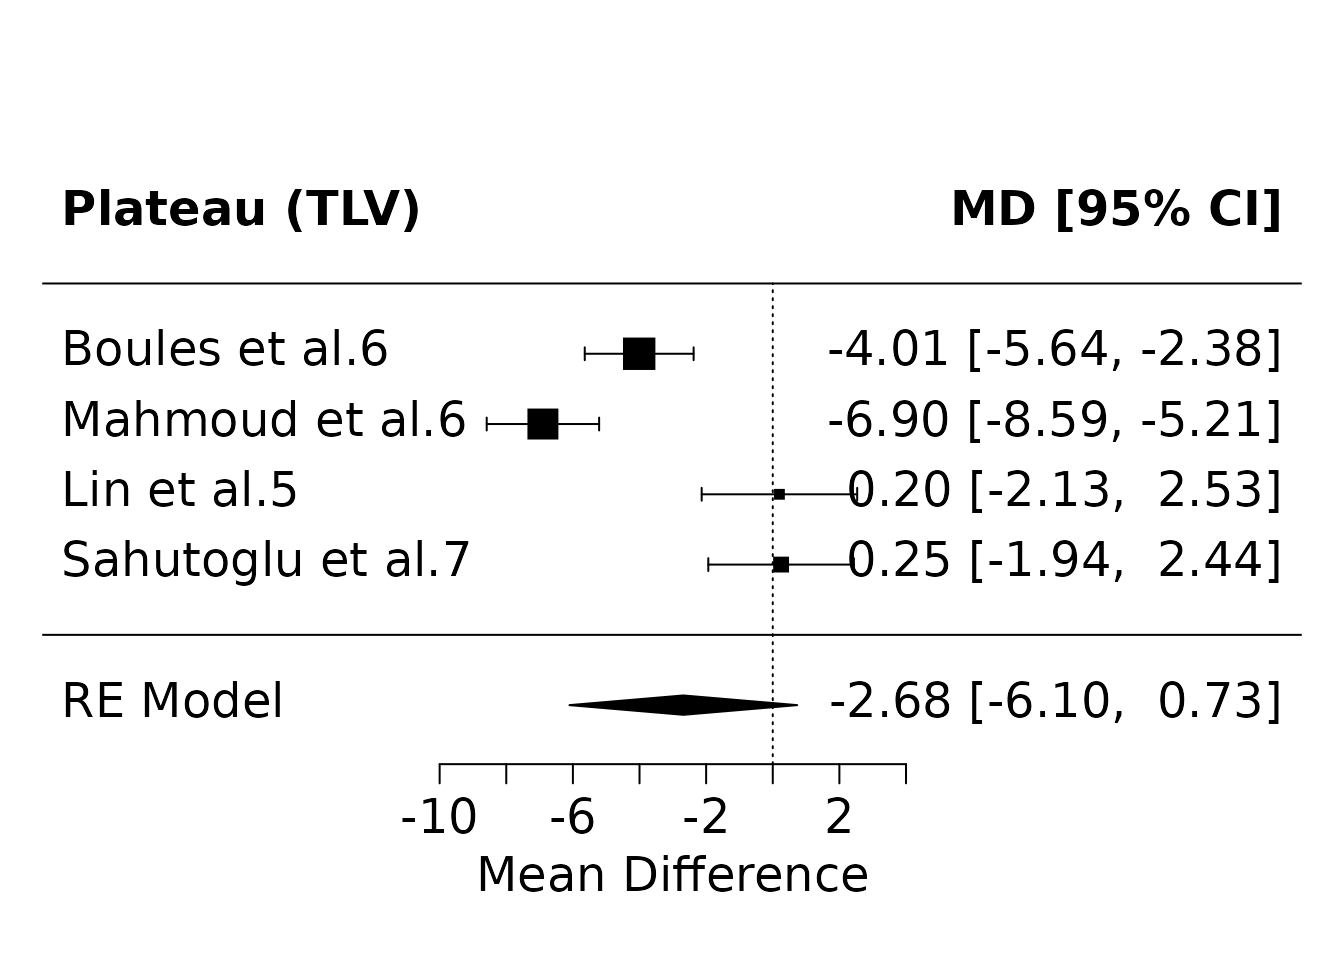
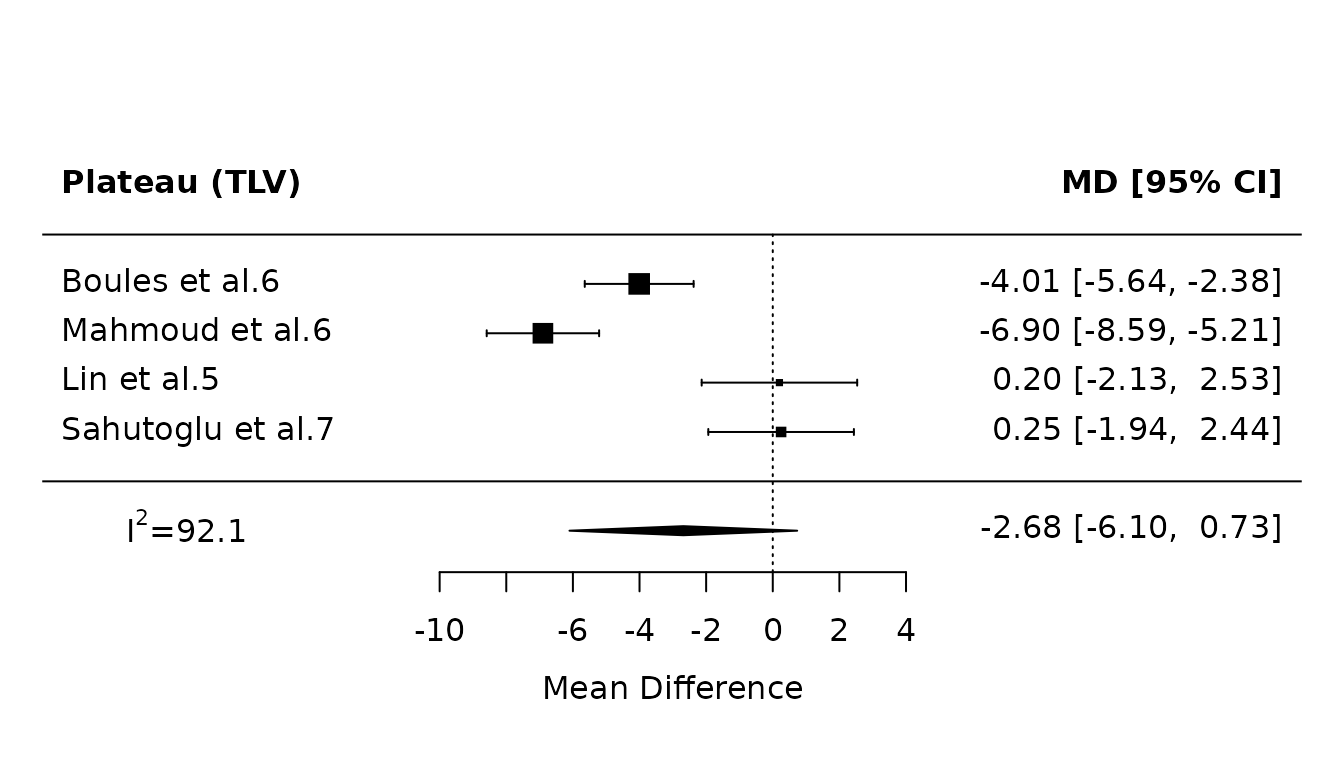
Built site for dcv: 0.0.0.9000@43ad66d

diff --git a/articles/dcv-atelectasis.html b/articles/dcv-atelectasis.html
@@ -95,8 +95,8 @@
 <h2 id="primary-analysis-paul-mandel-without-hartung-knapp-sidik-jonkman-hksj-modification">Primary analysis: Paul-Mandel without Hartung-Knapp-Sidik-Jonkman (HKSJ) modification<a class="anchor" aria-label="anchor" href="#primary-analysis-paul-mandel-without-hartung-knapp-sidik-jonkman-hksj-modification"></a>
 </h2>
 <div class="sourceCode" id="cb3"><pre class="downlit sourceCode r">
-<code class="sourceCode R"><span><span class="va">pm</span> <span class="op">&lt;-</span> <span class="fu"><a href="https://wviechtb.github.io/metafor/reference/rma.uni.html" class="external-link">rma</a></span><span class="op">(</span><span class="va">yi</span>, <span class="va">vi</span>, data<span class="op">=</span><span class="va">dat.atelectasis</span>, method<span class="op">=</span><span class="st">"PM"</span><span class="op">)</span> </span>
-<span><span class="fu"><a href="https://wviechtb.github.io/metafor/reference/forest.html" class="external-link">forest</a></span><span class="op">(</span><span class="va">pm</span>,</span>
+<code class="sourceCode R"><span><span class="va">pm.atelectasis</span> <span class="op">&lt;-</span> <span class="fu"><a href="https://wviechtb.github.io/metafor/reference/rma.uni.html" class="external-link">rma</a></span><span class="op">(</span><span class="va">yi</span>, <span class="va">vi</span>, data<span class="op">=</span><span class="va">dat.atelectasis</span>, method<span class="op">=</span><span class="st">"PM"</span><span class="op">)</span> </span>
+<span><span class="fu"><a href="https://wviechtb.github.io/metafor/reference/forest.html" class="external-link">forest</a></span><span class="op">(</span><span class="va">pm.atelectasis</span>,</span>
 <span>       atransf<span class="op">=</span><span class="va">exp</span>,</span>
 <span>       at<span class="op">=</span><span class="fu"><a href="https://rdrr.io/r/base/Log.html" class="external-link">log</a></span><span class="op">(</span><span class="fu"><a href="https://rdrr.io/r/base/c.html" class="external-link">c</a></span><span class="op">(</span><span class="fl">0.01</span>, <span class="fl">0.1</span>, <span class="fl">0.5</span>, <span class="fl">1</span>, <span class="fl">4</span>, <span class="fl">10</span><span class="op">)</span><span class="op">)</span><span class="op">)</span></span></code></pre></div>
 <p><img src="dcv-atelectasis_files/figure-html/PM-1.png" width="672"> These results agree with the paper (Fig 2, bottom).</p>
@@ -108,21 +108,21 @@
 <h3 id="sensitivity-analysis-1-fe-model">Sensitivity analysis 1: FE model<a class="anchor" aria-label="anchor" href="#sensitivity-analysis-1-fe-model"></a>
 </h3>
 <div class="sourceCode" id="cb4"><pre class="downlit sourceCode r">
-<code class="sourceCode R"><span><span class="va">fe</span> <span class="op">&lt;-</span> <span class="fu"><a href="https://wviechtb.github.io/metafor/reference/rma.uni.html" class="external-link">rma</a></span><span class="op">(</span><span class="va">yi</span>, <span class="va">vi</span>, data<span class="op">=</span><span class="va">dat.atelectasis</span>, method<span class="op">=</span><span class="st">"FE"</span><span class="op">)</span> </span>
-<span><span class="fu"><a href="https://wviechtb.github.io/metafor/reference/forest.html" class="external-link">forest</a></span><span class="op">(</span><span class="va">fe</span>, </span>
+<code class="sourceCode R"><span><span class="va">fe.atelectasis</span> <span class="op">&lt;-</span> <span class="fu"><a href="https://wviechtb.github.io/metafor/reference/rma.uni.html" class="external-link">rma</a></span><span class="op">(</span><span class="va">yi</span>, <span class="va">vi</span>, data<span class="op">=</span><span class="va">dat.atelectasis</span>, method<span class="op">=</span><span class="st">"FE"</span><span class="op">)</span> </span>
+<span><span class="fu"><a href="https://wviechtb.github.io/metafor/reference/forest.html" class="external-link">forest</a></span><span class="op">(</span><span class="va">fe.atelectasis</span>, </span>
 <span>       atransf<span class="op">=</span><span class="va">exp</span>,</span>
 <span>       at<span class="op">=</span><span class="fu"><a href="https://rdrr.io/r/base/Log.html" class="external-link">log</a></span><span class="op">(</span><span class="fu"><a href="https://rdrr.io/r/base/c.html" class="external-link">c</a></span><span class="op">(</span><span class="fl">0.01</span>, <span class="fl">0.1</span>, <span class="fl">0.5</span>, <span class="fl">1</span>, <span class="fl">4</span>, <span class="fl">10</span><span class="op">)</span><span class="op">)</span><span class="op">)</span></span></code></pre></div>
 <p><img src="dcv-atelectasis_files/figure-html/FE-1.png" width="672"></p>
 <p>Note: The standard RE model without HKSJ modification is identical (not shown):</p>
 <div class="sourceCode" id="cb5"><pre class="downlit sourceCode r">
-<code class="sourceCode R"><span><span class="va">re</span> <span class="op">&lt;-</span> <span class="fu"><a href="https://wviechtb.github.io/metafor/reference/rma.uni.html" class="external-link">rma</a></span><span class="op">(</span><span class="va">yi</span>, <span class="va">vi</span>, data<span class="op">=</span><span class="va">dat.atelectasis</span>, method<span class="op">=</span><span class="st">"REML"</span><span class="op">)</span> </span></code></pre></div>
+<code class="sourceCode R"><span><span class="va">re.atelectasis</span> <span class="op">&lt;-</span> <span class="fu"><a href="https://wviechtb.github.io/metafor/reference/rma.uni.html" class="external-link">rma</a></span><span class="op">(</span><span class="va">yi</span>, <span class="va">vi</span>, data<span class="op">=</span><span class="va">dat.atelectasis</span>, method<span class="op">=</span><span class="st">"REML"</span><span class="op">)</span> </span></code></pre></div>
 </div>
 <div class="section level3">
 <h3 id="sensitivity-analysis-2-paule-mandel-with-hksj-modification">Sensitivity analysis 2: Paule-Mandel with HKSJ modification<a class="anchor" aria-label="anchor" href="#sensitivity-analysis-2-paule-mandel-with-hksj-modification"></a>
 </h3>
 <div class="sourceCode" id="cb6"><pre class="downlit sourceCode r">
-<code class="sourceCode R"><span><span class="va">pmhk</span> <span class="op">&lt;-</span> <span class="fu"><a href="https://wviechtb.github.io/metafor/reference/rma.uni.html" class="external-link">rma</a></span><span class="op">(</span><span class="va">yi</span>, <span class="va">vi</span>, data<span class="op">=</span><span class="va">dat.atelectasis</span>, method<span class="op">=</span><span class="st">"PM"</span>, test<span class="op">=</span><span class="st">"knha"</span><span class="op">)</span> </span>
-<span><span class="fu"><a href="https://wviechtb.github.io/metafor/reference/forest.html" class="external-link">forest</a></span><span class="op">(</span><span class="va">pmhk</span>,</span>
+<code class="sourceCode R"><span><span class="va">pmhk.atelectasis</span> <span class="op">&lt;-</span> <span class="fu"><a href="https://wviechtb.github.io/metafor/reference/rma.uni.html" class="external-link">rma</a></span><span class="op">(</span><span class="va">yi</span>, <span class="va">vi</span>, data<span class="op">=</span><span class="va">dat.atelectasis</span>, method<span class="op">=</span><span class="st">"PM"</span>, test<span class="op">=</span><span class="st">"knha"</span><span class="op">)</span> </span>
+<span><span class="fu"><a href="https://wviechtb.github.io/metafor/reference/forest.html" class="external-link">forest</a></span><span class="op">(</span><span class="va">pmhk.atelectasis</span>,</span>
 <span>       atransf<span class="op">=</span><span class="va">exp</span>,</span>
 <span>       at<span class="op">=</span><span class="fu"><a href="https://rdrr.io/r/base/Log.html" class="external-link">log</a></span><span class="op">(</span><span class="fu"><a href="https://rdrr.io/r/base/c.html" class="external-link">c</a></span><span class="op">(</span><span class="fl">0.01</span>, <span class="fl">0.1</span>, <span class="fl">0.5</span>, <span class="fl">1</span>, <span class="fl">4</span>, <span class="fl">10</span><span class="op">)</span><span class="op">)</span><span class="op">)</span></span></code></pre></div>
 <p><img src="dcv-atelectasis_files/figure-html/PMHK-1.png" width="672"></p>
@@ -144,8 +144,8 @@
 <span>              <span class="op">)</span></span></code></pre></div>
 <div class="sourceCode" id="cb8"><pre class="downlit sourceCode r">
 <code class="sourceCode R"><span></span>
-<span><span class="va">pm.OR</span> <span class="op">&lt;-</span> <span class="fu"><a href="https://wviechtb.github.io/metafor/reference/rma.uni.html" class="external-link">rma</a></span><span class="op">(</span><span class="va">yi</span>, <span class="va">vi</span>, data<span class="op">=</span><span class="va">dat.atelectasis.OR</span>, method<span class="op">=</span><span class="st">"PM"</span><span class="op">)</span> </span>
-<span><span class="fu"><a href="https://wviechtb.github.io/metafor/reference/forest.html" class="external-link">forest</a></span><span class="op">(</span><span class="va">pm.OR</span>,</span>
+<span><span class="va">pm.OR.atelectasis</span> <span class="op">&lt;-</span> <span class="fu"><a href="https://wviechtb.github.io/metafor/reference/rma.uni.html" class="external-link">rma</a></span><span class="op">(</span><span class="va">yi</span>, <span class="va">vi</span>, data<span class="op">=</span><span class="va">dat.atelectasis.OR</span>, method<span class="op">=</span><span class="st">"PM"</span><span class="op">)</span> </span>
+<span><span class="fu"><a href="https://wviechtb.github.io/metafor/reference/forest.html" class="external-link">forest</a></span><span class="op">(</span><span class="va">pm.OR.atelectasis</span>,</span>
 <span>       atransf<span class="op">=</span><span class="va">exp</span>,</span>
 <span>       at<span class="op">=</span><span class="fu"><a href="https://rdrr.io/r/base/Log.html" class="external-link">log</a></span><span class="op">(</span><span class="fu"><a href="https://rdrr.io/r/base/c.html" class="external-link">c</a></span><span class="op">(</span><span class="fl">0.01</span>, <span class="fl">0.1</span>, <span class="fl">0.5</span>, <span class="fl">1</span>, <span class="fl">4</span>, <span class="fl">10</span><span class="op">)</span><span class="op">)</span><span class="op">)</span></span></code></pre></div>
 <p><img src="dcv-atelectasis_files/figure-html/PM%20-%20OR-1.png" width="672"></p>
@@ -159,11 +159,11 @@
 <h3 id="atelectasis">Atelectasis<a class="anchor" aria-label="anchor" href="#atelectasis"></a>
 </h3>
 <div class="sourceCode" id="cb9"><pre class="downlit sourceCode r">
-<code class="sourceCode R"><span><span class="va">leave1.atel</span> <span class="op">&lt;-</span> <span class="fu"><a href="https://wviechtb.github.io/metafor/reference/leave1out.html" class="external-link">leave1out</a></span><span class="op">(</span><span class="va">pm</span><span class="op">)</span></span>
+<code class="sourceCode R"><span><span class="va">leave1.atel</span> <span class="op">&lt;-</span> <span class="fu"><a href="https://wviechtb.github.io/metafor/reference/leave1out.html" class="external-link">leave1out</a></span><span class="op">(</span><span class="va">pm.atelectasis</span><span class="op">)</span></span>
 <span><span class="fu"><a href="https://wviechtb.github.io/metafor/reference/forest.default.html" class="external-link">forest.default</a></span><span class="op">(</span>x<span class="op">=</span><span class="va">leave1.atel</span><span class="op">$</span><span class="va">estimate</span>, ci.lb<span class="op">=</span><span class="va">leave1.atel</span><span class="op">$</span><span class="va">ci.lb</span>, ci.ub<span class="op">=</span><span class="va">leave1.atel</span><span class="op">$</span><span class="va">ci.ub</span>,</span>
 <span>               slab<span class="op">=</span><span class="fu"><a href="https://rdrr.io/r/base/paste.html" class="external-link">paste</a></span><span class="op">(</span><span class="st">"Omitting "</span>, <span class="va">leave1.atel</span><span class="op">$</span><span class="va">slab</span>, sep<span class="op">=</span><span class="st">""</span><span class="op">)</span>,atransf<span class="op">=</span><span class="va">exp</span>,</span>
-<span>               at<span class="op">=</span><span class="fu"><a href="https://rdrr.io/r/base/Log.html" class="external-link">log</a></span><span class="op">(</span><span class="fu"><a href="https://rdrr.io/r/base/c.html" class="external-link">c</a></span><span class="op">(</span><span class="fl">0.15</span>, <span class="fl">0.25</span>, <span class="fu"><a href="https://rdrr.io/r/base/Log.html" class="external-link">exp</a></span><span class="op">(</span><span class="va">pm</span><span class="op">$</span><span class="va">b</span><span class="op">)</span>, <span class="fl">1</span>, <span class="fl">4</span><span class="op">)</span><span class="op">)</span>, xlim<span class="op">=</span><span class="fu"><a href="https://rdrr.io/r/base/Log.html" class="external-link">log</a></span><span class="op">(</span><span class="fu"><a href="https://rdrr.io/r/base/c.html" class="external-link">c</a></span><span class="op">(</span><span class="fl">0.01</span>, <span class="fl">4.5</span><span class="op">)</span><span class="op">)</span>,</span>
-<span>               refline<span class="op">=</span><span class="va">pm</span><span class="op">$</span><span class="va">b</span></span>
+<span>               at<span class="op">=</span><span class="fu"><a href="https://rdrr.io/r/base/Log.html" class="external-link">log</a></span><span class="op">(</span><span class="fu"><a href="https://rdrr.io/r/base/c.html" class="external-link">c</a></span><span class="op">(</span><span class="fl">0.15</span>, <span class="fl">0.25</span>, <span class="fu"><a href="https://rdrr.io/r/base/Log.html" class="external-link">exp</a></span><span class="op">(</span><span class="va">pm.atelectasis</span><span class="op">$</span><span class="va">b</span><span class="op">)</span>, <span class="fl">1</span>, <span class="fl">4</span><span class="op">)</span><span class="op">)</span>, xlim<span class="op">=</span><span class="fu"><a href="https://rdrr.io/r/base/Log.html" class="external-link">log</a></span><span class="op">(</span><span class="fu"><a href="https://rdrr.io/r/base/c.html" class="external-link">c</a></span><span class="op">(</span><span class="fl">0.01</span>, <span class="fl">4.5</span><span class="op">)</span><span class="op">)</span>,</span>
+<span>               refline<span class="op">=</span><span class="va">pm.atelectasis</span><span class="op">$</span><span class="va">b</span></span>
 <span>              <span class="op">)</span></span>
 <span><span class="fu"><a href="https://rdrr.io/r/graphics/lines.html" class="external-link">lines</a></span><span class="op">(</span>x<span class="op">=</span><span class="fu"><a href="https://rdrr.io/r/base/Log.html" class="external-link">log</a></span><span class="op">(</span><span class="fu"><a href="https://rdrr.io/r/base/c.html" class="external-link">c</a></span><span class="op">(</span><span class="fl">1</span>, <span class="fl">1</span><span class="op">)</span><span class="op">)</span>, y<span class="op">=</span><span class="fu"><a href="https://rdrr.io/r/base/c.html" class="external-link">c</a></span><span class="op">(</span><span class="fl">0</span>, <span class="fl">6</span><span class="op">)</span><span class="op">)</span></span></code></pre></div>
 <p><img src="dcv-atelectasis_files/figure-html/leave%20one%20out%20atel-1.png" width="672"></p>
@@ -173,10 +173,10 @@
 <h3 id="funnel-plot">Funnel plot<a class="anchor" aria-label="anchor" href="#funnel-plot"></a>
 </h3>
 <div class="sourceCode" id="cb10"><pre class="downlit sourceCode r">
-<code class="sourceCode R"><span><span class="fu"><a href="https://wviechtb.github.io/metafor/reference/funnel.html" class="external-link">funnel</a></span><span class="op">(</span><span class="va">pm</span>, main<span class="op">=</span><span class="st">"Standard Error"</span><span class="op">)</span></span></code></pre></div>
+<code class="sourceCode R"><span><span class="fu"><a href="https://wviechtb.github.io/metafor/reference/funnel.html" class="external-link">funnel</a></span><span class="op">(</span><span class="va">pm.atelectasis</span>, main<span class="op">=</span><span class="st">"Standard Error"</span><span class="op">)</span></span></code></pre></div>
 <p><img src="dcv-atelectasis_files/figure-html/funnel-1.png" width="576"></p>
 <div class="sourceCode" id="cb11"><pre class="downlit sourceCode r">
-<code class="sourceCode R"><span><span class="fu"><a href="https://wviechtb.github.io/metafor/reference/regtest.html" class="external-link">regtest</a></span><span class="op">(</span><span class="va">pm</span><span class="op">)</span></span>
+<code class="sourceCode R"><span><span class="fu"><a href="https://wviechtb.github.io/metafor/reference/regtest.html" class="external-link">regtest</a></span><span class="op">(</span><span class="va">pm.atelectasis</span><span class="op">)</span></span>
 <span><span class="co">#&gt; </span></span>
 <span><span class="co">#&gt; Regression Test for Funnel Plot Asymmetry</span></span>
 <span><span class="co">#&gt; </span></span>

diff --git a/articles/second-outcomes.html b/articles/second-outcomes.html
@@ -98,16 +98,22 @@
 <h2 id="collated-results">Collated results<a class="anchor" aria-label="anchor" href="#collated-results"></a>
 </h2>
 <!-- html table generated in R 4.2.1 by xtable 1.8-4 package -->
-<!-- Tue Aug 16 10:43:39 2022 -->
+<!-- Tue Aug 16 16:32:50 2022 -->
 <table border="1" class="table">
+<caption align="bottom">
+OLV results
+</caption>
 <tr>
 <th>
 </th>
 <th>
-OLV
+est
 </th>
 <th>
-TLV
+p.value
+</th>
+<th>
+I2
 </th>
 </tr>
 <tr>
@@ -115,10 +121,13 @@ TLV
 Cdyn
 </td>
 <td align="right">
-5.47 (2.99, 7.95)
+5.5 (3, 7.9)
 </td>
 <td align="right">
-—
+0.000
+</td>
+<td align="right">
+89.7
 </td>
 </tr>
 <tr>
@@ -126,10 +135,13 @@ Cdyn
 Plateau
 </td>
 <td align="right">
--3.52 (-6.47, -0.57)
+-3.5 (-6.5, -0.6)
 </td>
 <td align="right">
--2.68 (-6.1, 0.73)
+0.019
+</td>
+<td align="right">
+87.8
 </td>
 </tr>
 <tr>
@@ -137,25 +149,91 @@ Plateau
 Peak
 </td>
 <td align="right">
--4.32 (-5.54, -3.1)
+-4.3 (-5.5, -3.1)
 </td>
 <td align="right">
--2.85 (-4.37, -1.34)
+0.000
+</td>
+<td align="right">
+82.3
 </td>
 </tr>
 <tr>
 <td align="right">
-pO2
+PaO2
 </td>
 <td align="right">
-25.4 (4.31, 46.49)
+25.4 (4.3, 46.5)
 </td>
 <td align="right">
-17.49 (4.65, 30.32)
+0.018
+</td>
+<td align="right">
+92.9
 </td>
 </tr>
 </table>
-<p>Evidence of effect in all secondary outcomes except Plateau+TLV. These effects persist when the HKSJ modification is used, with the exception of Plateau+OLV.</p>
+<!-- html table generated in R 4.2.1 by xtable 1.8-4 package --><!-- Tue Aug 16 16:32:50 2022 --><table border="1" class="table">
+<caption align="bottom">
+TLV results
+</caption>
+<tr>
+<th>
+</th>
+<th>
+est
+</th>
+<th>
+p.value
+</th>
+<th>
+I2
+</th>
+</tr>
+<tr>
+<td align="right">
+Plateau
+</td>
+<td align="right">
+-2.7 (-6.1, 0.7)
+</td>
+<td align="right">
+0.124
+</td>
+<td align="right">
+92.1
+</td>
+</tr>
+<tr>
+<td align="right">
+Peak
+</td>
+<td align="right">
+-2.9 (-4.4, -1.3)
+</td>
+<td align="right">
+0.000
+</td>
+<td align="right">
+81.6
+</td>
+</tr>
+<tr>
+<td align="right">
+PaO2
+</td>
+<td align="right">
+17.5 (4.7, 30.3)
+</td>
+<td align="right">
+0.008
+</td>
+<td align="right">
+34.6
+</td>
+</tr>
+</table>
+<p>Evidence of effect in all secondary outcomes except Plateau+TLV. These effects persist when the HKSJ modification is used, with the exception of Plateau+OLV (results not shown).</p>
 </div>
 <div class="section level2">
 <h2 id="notes-on-secondary-outcome-figures-in-draft">Notes on secondary outcome figures in draft<a class="anchor" aria-label="anchor" href="#notes-on-secondary-outcome-figures-in-draft"></a>

diff --git a/articles/index.html b/articles/index.html
@@ -74,7 +74,7 @@
     
     
 <div class="section level2">
-<h2 id="click-articles---meta-analysis-on-postoperative-pneumonia-for-analysis">Click Articles -&gt; Meta-Analysis on Postoperative Pneumonia for analysis<a class="anchor" aria-label="anchor" href="#click-articles---meta-analysis-on-postoperative-pneumonia-for-analysis"></a>
+<h2 id="click-articles-drop-down-tab-for-all-analysis">Click Articles drop-down tab for all analysis<a class="anchor" aria-label="anchor" href="#click-articles-drop-down-tab-for-all-analysis"></a>
 </h2>
 </div>
   </main>
